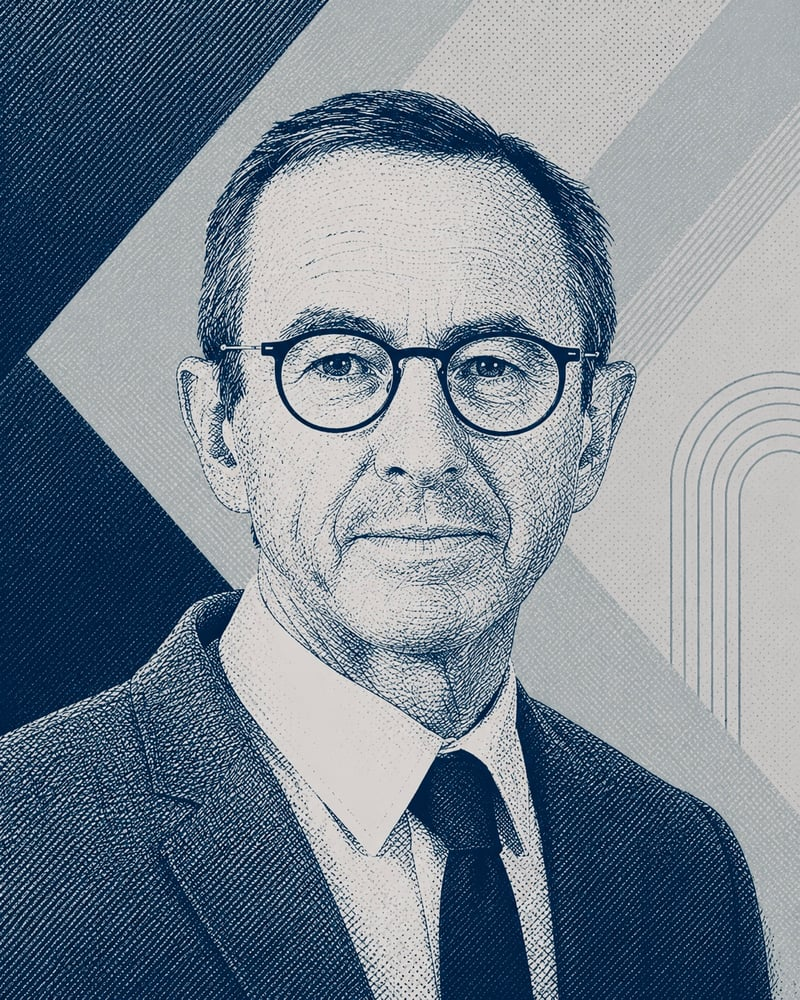
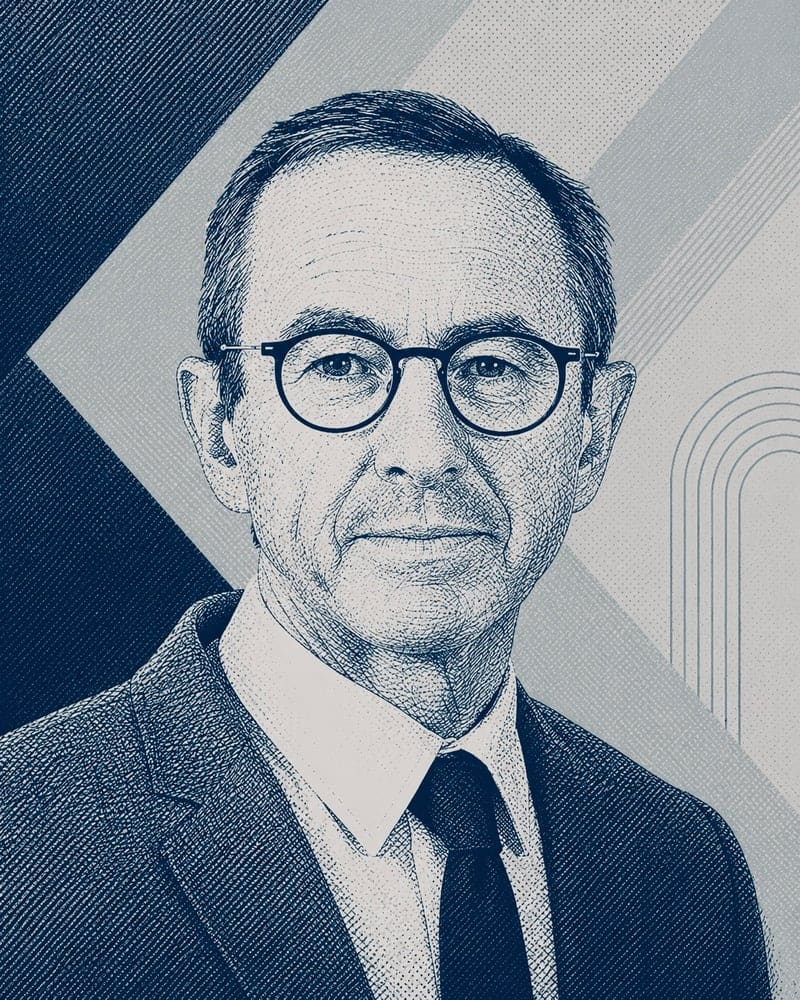
perf(cdn): cache ISR des pages publiques, prefetch réduit, images allégées
Réduit le nombre de requêtes CDN par visite (facture Vercel) et accélère le site.

- Prefetch désactivé (prefetch={false}) sur les liens des listes et des
  filtres : pastilles et tri de /declarations, cartes de fiches, liens
  ?candidat= et ?theme= (accueil, /candidats). Menu et pied de page inchangés.
- ISR 300 s à la place de force-dynamic : accueil, /candidats, /themes,
  /prix-perlimpinpin ; /declarations/[id], /candidats/[id] et /themes/[slug]
  avec generateStaticParams() -> [] (générées à la première visite, le build
  ne lit pas Neon pour elles). /declarations reste dynamique.
- Cache-Control d'un jour (+ stale-while-revalidate 7 j) pour /photos,
  /logo, /bannière et avatar-placeholder.svg (jamais /relectures).
- Logo redimensionné (107 Ko -> 5 Ko), photos recompressées (-28 %, mêmes
  dimensions) et vignettes WebP 128x160 pour les listes (2,2 Mo -> 41 Ko
  sur /declarations), générées par `npm run vignettes`.

diff --git a/src/app/declarations/page.js b/src/app/declarations/page.js
@@ -4,6 +4,7 @@ import FilterPillGroup from "@/components/FilterPillGroup";
 import MonoTag from "@/components/MonoTag";
 import { getPublishedDeclarations } from "@/lib/queries";
 import { getScoreBadge } from "@/lib/score";
+import { vignettePhoto } from "@/lib/photo-vignette";
 
 export const dynamic = "force-dynamic";
 
@@ -107,6 +108,7 @@ export default async function DeclarationsPage({ searchParams }) {
                   <Link
                     key={option.value}
                     href={buildSortHref(currentParams, option.value)}
+                    prefetch={false}
                     className={`rounded-full px-3 py-1 text-sm font-semibold transition-colors ${
                       sort === option.value
                         ? "bg-zinc-900 text-white"
@@ -134,12 +136,13 @@ export default async function DeclarationsPage({ searchParams }) {
                   <Link
                     key={d.id}
                     href={`/declarations/${d.id}`}
+                    prefetch={false}
                     className="flex flex-col gap-3 rounded-2xl border border-zinc-200 bg-white p-6 transition-colors hover:border-zinc-300 hover:bg-zinc-50"
                   >
                     <div className="flex items-start justify-between gap-3">
                       <div className="flex items-center gap-3">
                         <img
-                          src={d.candidatPhotoUrl || "/avatar-placeholder.svg"}
+                          src={vignettePhoto(d.candidatPhotoUrl) || "/avatar-placeholder.svg"}
                           alt={d.candidatNom}
                           className="h-9 w-9 shrink-0 rounded-lg object-cover object-top"
                         />

diff --git a/scripts/vignettes-photos.js b/scripts/vignettes-photos.js
@@ -1,0 +1,39 @@
+// Génère les vignettes des photos de candidats : public/photos/x.jpg →
+// public/photos/vignettes/x.webp (128×160, même cadrage 4:5 que l'original).
+// Les listes affichent les photos en 36 à 64 px : inutile d'y charger
+// l'original 800×1000 (~200 Ko) quand une vignette de quelques Ko suffit.
+//
+// Écrit aussi src/lib/photo-vignettes.json (liste des vignettes disponibles) :
+// src/lib/photo-vignette.js ne pointe vers une vignette que si elle y figure,
+// sinon il garde la grande photo (nouveau candidat sans vignette = rien de cassé).
+//
+// À relancer après l'ajout ou le remplacement d'une photo :
+//   npm run vignettes
+import { readdirSync, mkdirSync, writeFileSync } from "node:fs";
+import { join, parse } from "node:path";
+import sharp from "sharp";
+
+const PHOTOS_DIR = "public/photos";
+const VIGNETTES_DIR = join(PHOTOS_DIR, "vignettes");
+const MANIFEST = "src/lib/photo-vignettes.json";
+
+mkdirSync(VIGNETTES_DIR, { recursive: true });
+
+const noms = [];
+for (const fichier of readdirSync(PHOTOS_DIR).sort()) {
+  const { name, ext } = parse(fichier);
+  if (![".jpg", ".jpeg", ".png", ".webp"].includes(ext.toLowerCase())) continue;
+
+  const cible = join(VIGNETTES_DIR, `${name}.webp`);
+  // position "top" : les <img> des listes sont en object-top, on garde le visage.
+  await sharp(join(PHOTOS_DIR, fichier))
+    .rotate()
+    .resize(128, 160, { fit: "cover", position: "top" })
+    .webp({ quality: 80 })
+    .toFile(cible);
+  noms.push(fichier);
+  console.log(`${fichier} → ${cible}`);
+}
+
+writeFileSync(MANIFEST, `${JSON.stringify(noms, null, 2)}\n`);
+console.log(`${noms.length} vignettes, liste écrite dans ${MANIFEST}`);

diff --git a/src/app/declarations/[id]/page.js b/src/app/declarations/[id]/page.js
@@ -13,8 +13,18 @@ import SupportBanner from "@/components/SupportBanner";
 import EditableBlock from "@/app/test/EditableBlock";
 import { getDeclarationDetail } from "@/lib/queries";
 import { getScoreBadge, PLAFOND_DECLENCHEUR_LABELS } from "@/lib/score";
+import { vignettePhoto } from "@/lib/photo-vignette";
 
-export const dynamic = "force-dynamic";
+// ISR : chaque fiche est calculée à sa première visite, puis servie depuis le
+// cache du CDN et recalculée au plus toutes les 5 minutes (nouvelle analyse,
+// compteurs de votes). generateStaticParams renvoie [] : le build ne lit pas
+// Neon, et dynamicParams = true laisse générer n'importe quel id à la demande.
+export const revalidate = 300;
+export const dynamicParams = true;
+
+export async function generateStaticParams() {
+  return [];
+}
 
 // Mémoïsé par requête (React cache) plutôt qu'appelé deux fois : generateMetadata
 // et la page elle-même ont besoin de la même fiche, et getDeclarationDetail fait
@@ -993,7 +1003,7 @@ export default async function DeclarationDetailPage({ params, preview = false, e
 
               <div className="mt-6 flex items-center gap-3">
                 <img
-                  src={declaration.candidat.photoUrl || "/avatar-placeholder.svg"}
+                  src={vignettePhoto(declaration.candidat.photoUrl) || "/avatar-placeholder.svg"}
                   alt={declaration.candidat.nom}
                   className="h-11 w-11 shrink-0 rounded-lg object-cover object-top"
                 />

diff --git a/src/app/themes/[slug]/page.js b/src/app/themes/[slug]/page.js
@@ -4,8 +4,18 @@ import Header from "@/components/Header";
 import { getPublishedPropositionsByThemeSlug } from "@/lib/queries";
 import { getThemeBySlug } from "@/lib/themes";
 import { getScoreBadge } from "@/lib/score";
+import { vignettePhoto } from "@/lib/photo-vignette";
 
-export const dynamic = "force-dynamic";
+// ISR : chaque page est calculée à sa première visite, puis servie depuis le
+// cache du CDN et recalculée au plus toutes les 5 minutes. generateStaticParams
+// renvoie [] : le build ne lit pas Neon, et dynamicParams = true laisse
+// générer n'importe quelle adresse à la demande.
+export const revalidate = 300;
+export const dynamicParams = true;
+
+export async function generateStaticParams() {
+  return [];
+}
 
 export async function generateMetadata({ params }) {
   const { slug } = await params;
@@ -60,7 +70,7 @@ export default async function ThemeDetailPage({ params }) {
                     className="flex flex-col gap-4 rounded-2xl border border-zinc-200 bg-white p-6 transition-colors hover:border-zinc-300 hover:bg-zinc-50 sm:flex-row sm:items-center"
                   >
                     <img
-                      src={proposition.candidatPhotoUrl || "/avatar-placeholder.svg"}
+                      src={vignettePhoto(proposition.candidatPhotoUrl) || "/avatar-placeholder.svg"}
                       alt={proposition.candidatNom}
                       className="h-11 w-11 shrink-0 rounded-lg object-cover object-top"
                     />

diff --git a/src/app/prix-perlimpinpin/page.js b/src/app/prix-perlimpinpin/page.js
@@ -4,8 +4,10 @@ import MonoTag from "@/components/MonoTag";
 import ArrowIcon from "@/components/ArrowIcon";
 import { getScoreExtremes, getVoteMesureLeaderboard } from "@/lib/queries";
 import { getScoreBadge } from "@/lib/score";
+import { vignettePhoto } from "@/lib/photo-vignette";
 
-export const dynamic = "force-dynamic";
+// ISR : servie depuis le cache du CDN, recalculée au plus toutes les 5 minutes.
+export const revalidate = 300;
 
 const ICON_FLAG = (
   <path
@@ -60,7 +62,7 @@ function ExtremeCardContent({ card, border }) {
     <div className={`mt-3 rounded-2xl border border-l-4 border-zinc-200 bg-white p-6 ${border}`}>
       <div className="flex items-center gap-3">
         <img
-          src={card.candidatPhotoUrl || "/avatar-placeholder.svg"}
+          src={vignettePhoto(card.candidatPhotoUrl) || "/avatar-placeholder.svg"}
           alt={card.candidatNom}
           className="h-10 w-10 shrink-0 rounded-lg object-cover object-top"
         />
@@ -115,7 +117,7 @@ function VoteColumn({ title, cards, countLabel, pctLabel, direction }) {
                 {String(index + 1).padStart(2, "0")}
               </span>
               <img
-                src={card.candidatPhotoUrl || "/avatar-placeholder.svg"}
+                src={vignettePhoto(card.candidatPhotoUrl) || "/avatar-placeholder.svg"}
                 alt={card.candidatNom}
                 className="h-9 w-9 shrink-0 rounded-lg object-cover object-top"
               />

diff --git a/src/components/BottomColumns.js b/src/components/BottomColumns.js
@@ -1,5 +1,6 @@
 import Link from "next/link";
 import { formatScore, getScoreBadge, getScoreBands } from "@/lib/score";
+import { vignettePhoto } from "@/lib/photo-vignette";
 
 function ColumnHeader({ title, subtitle, linkLabel, linkHref, icon }) {
   return (
@@ -49,7 +50,7 @@ function TopDeclarationsColumn({ declarations }) {
                   className="-m-2 flex items-start gap-3 rounded-xl p-2 transition-colors hover:bg-zinc-50"
                 >
                   <img
-                    src={item.photoUrl || "/avatar-placeholder.svg"}
+                    src={vignettePhoto(item.photoUrl) || "/avatar-placeholder.svg"}
                     alt={item.name}
                     className="h-9 w-9 shrink-0 rounded-lg object-cover object-top"
                   />
@@ -179,10 +180,11 @@ function ReliabilityIndexColumn({ candidates }) {
               </span>
               <Link
                 href={`/declarations?candidat=${encodeURIComponent(candidate.name)}`}
+                prefetch={false}
                 className="flex min-w-0 flex-1 items-center gap-3 transition-opacity hover:opacity-70"
               >
                 <img
-                  src={candidate.photoUrl || "/avatar-placeholder.svg"}
+                  src={vignettePhoto(candidate.photoUrl) || "/avatar-placeholder.svg"}
                   alt={candidate.name}
                   className="h-9 w-9 shrink-0 rounded-lg object-cover object-top"
                 />

diff --git a/src/app/candidats/page.js b/src/app/candidats/page.js
@@ -3,8 +3,10 @@ import Header from "@/components/Header";
 import MonoTag from "@/components/MonoTag";
 import { getAllCandidats } from "@/lib/queries";
 import { formatScore, getScoreBadge } from "@/lib/score";
+import { vignettePhoto } from "@/lib/photo-vignette";
 
-export const dynamic = "force-dynamic";
+// ISR : servie depuis le cache du CDN, recalculée au plus toutes les 5 minutes.
+export const revalidate = 300;
 
 export const metadata = {
   title: "Les candidats | Perlimpinpin",
@@ -51,11 +53,12 @@ export default async function CandidatsPage() {
                 <Link
                   key={candidat.id}
                   href={`/declarations?candidat=${encodeURIComponent(candidat.nom)}`}
+                  prefetch={false}
                   className="flex flex-col gap-4 border-b border-zinc-200 pb-6 transition-opacity hover:opacity-70"
                 >
                   <div className="flex items-center gap-3">
                     <img
-                      src={candidat.photoUrl || "/avatar-placeholder.svg"}
+                      src={vignettePhoto(candidat.photoUrl) || "/avatar-placeholder.svg"}
                       alt={candidat.nom}
                       className="h-16 w-16 shrink-0 rounded-xl object-cover object-top"
                     />

diff --git a/scripts/photo-vignette.test.js b/scripts/photo-vignette.test.js
@@ -1,0 +1,26 @@
+import { test } from "node:test";
+import assert from "node:assert/strict";
+import { vignettePhoto } from "../src/lib/photo-vignette.js";
+
+const DISPONIBLES = ["marine-le-pen.jpg"];
+
+test("photo avec vignette : adresse de la vignette webp", () => {
+  assert.equal(
+    vignettePhoto("/photos/marine-le-pen.jpg", DISPONIBLES),
+    "/photos/vignettes/marine-le-pen.webp",
+  );
+});
+
+test("photo sans vignette (nouveau candidat) : adresse d'origine", () => {
+  assert.equal(vignettePhoto("/photos/nouveau.jpg", DISPONIBLES), "/photos/nouveau.jpg");
+});
+
+test("placeholder, adresse externe, vide : inchangés", () => {
+  assert.equal(vignettePhoto("/avatar-placeholder.svg", DISPONIBLES), "/avatar-placeholder.svg");
+  assert.equal(
+    vignettePhoto("https://exemple.fr/photos/marine-le-pen.jpg", DISPONIBLES),
+    "https://exemple.fr/photos/marine-le-pen.jpg",
+  );
+  assert.equal(vignettePhoto(null, DISPONIBLES), null);
+  assert.equal(vignettePhoto(undefined, DISPONIBLES), undefined);
+});

diff --git a/src/lib/photo-vignette.js b/src/lib/photo-vignette.js
@@ -1,0 +1,13 @@
+import VIGNETTES from "./photo-vignettes.json" with { type: "json" };
+
+// Vignette 128×160 d'une photo de candidat, pour les listes (photos affichées
+// en 36 à 64 px). Générée par scripts/vignettes-photos.js (npm run vignettes).
+// Seules les photos de public/photos/ listées dans photo-vignettes.json ont une
+// vignette : pour toute autre adresse (photo externe, nouveau candidat pas
+// encore traité, placeholder), on renvoie l'adresse d'origine telle quelle.
+// Ne pas utiliser pour les grands formats (carrousel, page candidat).
+export function vignettePhoto(url, disponibles = VIGNETTES) {
+  const match = typeof url === "string" ? url.match(/^\/photos\/([^/]+)\.[a-z]+$/i) : null;
+  if (!match || !disponibles.includes(url.slice("/photos/".length))) return url;
+  return `/photos/vignettes/${match[1]}.webp`;
+}

diff --git a/src/app/candidats/[id]/page.js b/src/app/candidats/[id]/page.js
@@ -4,7 +4,16 @@ import Header from "@/components/Header";
 import { getCandidatDetail } from "@/lib/queries";
 import { formatScore, getScoreBadge } from "@/lib/score";
 
-export const dynamic = "force-dynamic";
+// ISR : chaque page est calculée à sa première visite, puis servie depuis le
+// cache du CDN et recalculée au plus toutes les 5 minutes. generateStaticParams
+// renvoie [] : le build ne lit pas Neon, et dynamicParams = true laisse
+// générer n'importe quelle adresse à la demande.
+export const revalidate = 300;
+export const dynamicParams = true;
+
+export async function generateStaticParams() {
+  return [];
+}
 
 // Blocs de contenu éditorial de la fiche candidat. Chaque entrée est vide
 // pour le moment (contenu à rédiger) — il suffit de remplir `contenu` pour

diff --git a/src/app/page.js b/src/app/page.js
@@ -11,9 +11,10 @@ import {
   getCandidateRanking,
 } from "@/lib/queries";
 
-// La page dépend de données Neon qui changent (analyses publiées, scores) —
-// rendu dynamique à chaque requête plutôt que figé au build.
-export const dynamic = "force-dynamic";
+// La page dépend de données Neon qui changent (analyses publiées, scores) :
+// ISR, recalculée au plus toutes les 5 minutes et servie depuis le cache du
+// CDN entre-temps (rendu reproductible, voir getFeaturedRotation).
+export const revalidate = 300;
 
 export default async function Home() {
   const [featuredRotation, topDeclarations, rankedCandidates] =

diff --git a/src/components/FilterPillGroup.js b/src/components/FilterPillGroup.js
@@ -47,6 +47,7 @@ export default function FilterPillGroup({
       <div className="flex flex-wrap items-center gap-2">
         <Link
           href={buildHref(currentParams, paramKey, null)}
+          prefetch={false}
           className={pillClass(!activeValue)}
         >
           Tous
@@ -59,6 +60,7 @@ export default function FilterPillGroup({
               paramKey,
               activeValue === option.value ? null : option.value,
             )}
+            prefetch={false}
             className={pillClass(activeValue === option.value)}
           >
             {option.label}
